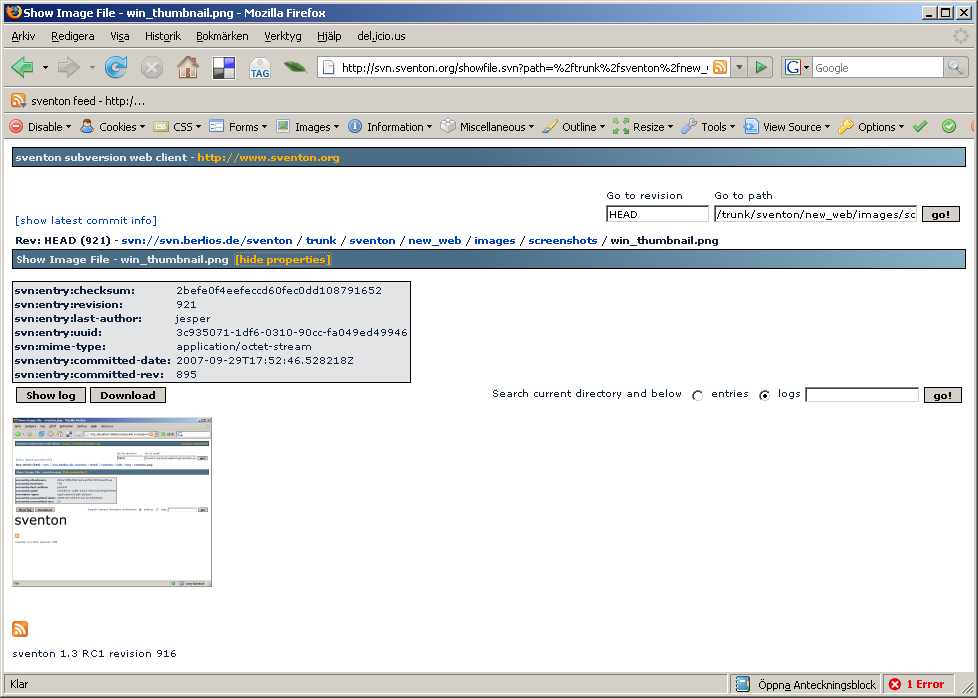
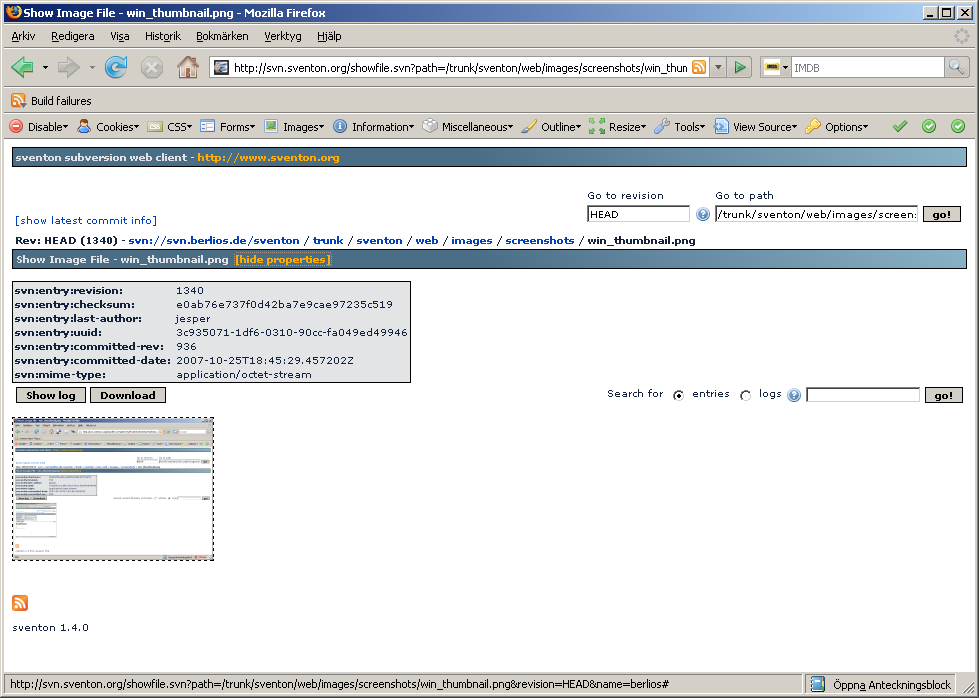
Updated screenshots, winxp/sventon 1.4.0.

diff --git a/branches/releases/1.4/sventon/web/screenshots.php b/branches/releases/1.4/sventon/web/screenshots.php
@@ -1,11 +1,14 @@
 <div class="header">Screenshots</div>
+<!--
 <div>
   <b><i>Updated screenshots from sventon 1.4.0 comming soon!</i></b>
 </div>
+-->
 <div class="body">
 
 <hr>
 
+<!--
 <p>
   <b>Mac OS X screenshots</b>
 </p>
@@ -45,6 +48,7 @@
 </table>
 
 <hr>
+-->
 
 <p>
   <b>Win XP screenshots</b>
